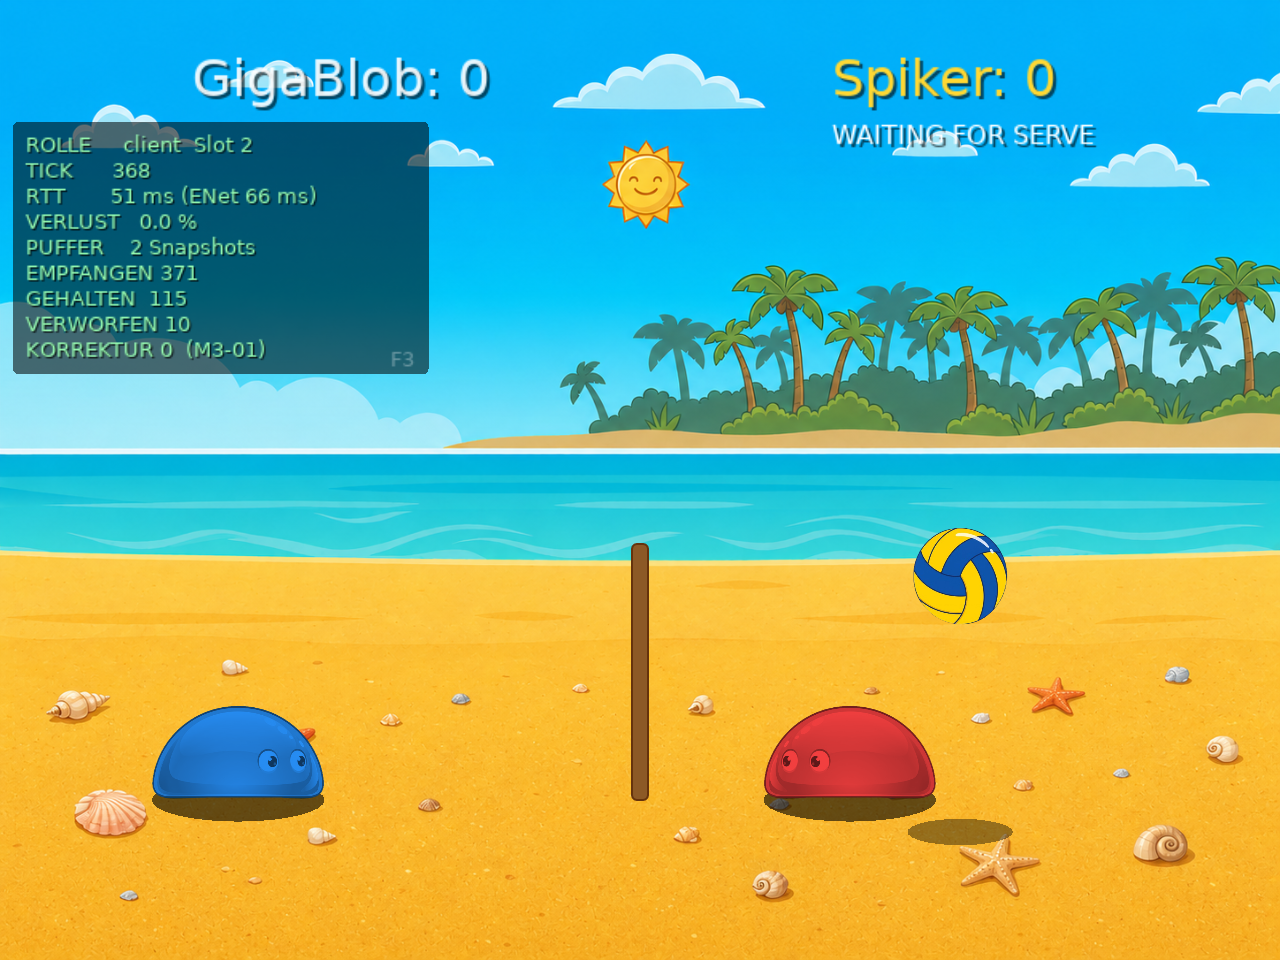
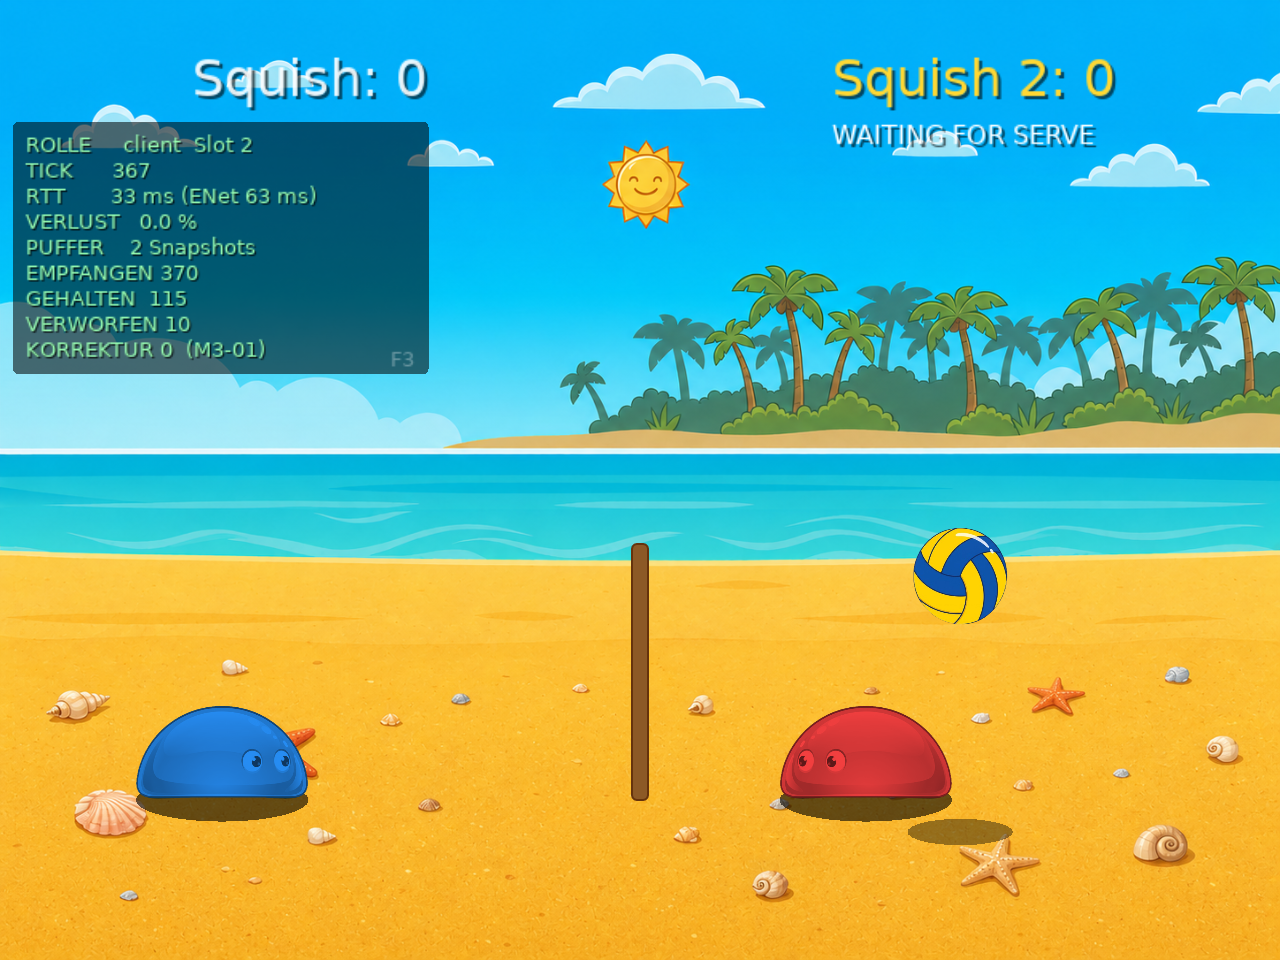
docs(net): close open point N-03 and write down the D2 order of play (M2)
CI run 14 is green on both platforms, so the byte-identity question from
04_NETCODE 13 is answered with a yes instead of "practically certain". The
one exception it turned up - the sign of zero - is recorded as finding B-N-07
and normalised away before sending.

The report now carries the order in which tonight's two-machine test should
run, and why the two hosting directions are separate steps: whether an
incoming connection arrives depends on the firewall of the machine that
hosts, not on the operating system of the guest.

Claude-Session: https://claude.ai/code/session_01SuUfbcMnVeAjRbEebhfFdR

diff --git a/docs/handoffs/CC-03_REPORT.md b/docs/handoffs/CC-03_REPORT.md
@@ -2,8 +2,21 @@
 
 **Datum:** 2026-08-12 · **Auftrag:** `docs/handoffs/CC-03_M2_LAN.md`
 **Ausgangsstand:** 968e35f · **Endstand:** siehe `git log` ab e69980d
-**Tests:** 155 bestanden, 0 gescheitert (vorher 83) · **Netz-Selbsttest:** 37 Prüfungen, alle grün
+**Tests:** 179 bestanden, 0 gescheitert (vorher 83) · **Netz-Selbsttest:** 37 Prüfungen, alle grün
 **Referenzen:** `python tools/verify_replays.py` meldet OK
+**CI:** Lauf 14 vollständig grün, einschließlich `Protokoll-Bytes (macos-latest)`
+
+---
+
+## 0. Nachtrag nach dem Push
+
+**Offener Punkt N-03 ist beantwortet: ja.** Der vollständige 72-Byte-Snapshot ist auf
+`windows-latest` und `macos-latest` bitgleich. Dafür brauchte es drei CI-Läufe, und der
+zweite hat etwas gefunden, das keine Überlegung am Schreibtisch gefunden hätte — siehe
+B-N-07.
+
+**Nachgereicht auf Ansage (r0btoshi, 2026-08-12):** ein **gespeicherter Nickname** für
+Netzspiel und Turnier. Die Zufallsnamen bleiben, wo sie hingehören — im lokalen Spiel.
 
 ---
 
@@ -38,7 +51,7 @@ Endstand** (`./tools/net_test.sh loopback`, zuletzt 2:0 bei 3595 übertragenen S
 | T-N-04 Client killen → Pause, Walkover | **ja** | Selbsttest: Pause, 30-s-Fenster, Walkover-Meldung nach Ablauf |
 | T-N-05 Killen und in 10 s zurück | **ja** | Selbsttest: derselbe `clientId` steigt in das laufende Match ein |
 | T-N-06 abweichender `rulesetHash` | **ja** | Selbsttest: Start unterbleibt, Klartext nennt beide Hashes |
-| T-N-07 gleiche Bytes auf Win und macOS | **halb** | Windows: Referenzbytes stimmen. macOS: CI-Job steht, ist aber **noch nie gelaufen** |
+| T-N-07 gleiche Bytes auf Win und macOS | **ja** | CI-Lauf 14: derselbe 72-Byte-Snapshot auf beiden Läufern. N-03 geschlossen |
 | T-N-08 200 Snapshots in einem Frame | **ja** | Selbsttest: 201 Ereignisse in einem Durchlauf, danach leer |
 | T-N-09 drei Hosts gleichzeitig | **offen** | braucht drei Rechner; die Zusammenführung doppelter Einträge ist belegt |
 | T-N-10 Host schließt die Lobby | **ja** | Selbsttest: der Gast bekommt „Verbindung zum Host verloren", die Szene räumt sich nach 6 s ab |
@@ -91,6 +104,21 @@ Phasen, die es nicht gibt, fehlten drei **sichtbare** Werte: Blob-Neigung (die A
 Seitwärts-Dash), Dash-Cooldown (der rote Balken im HUD) und der Fehlerwurf (die Einblendung
 „FAULT!"). Alle drei sind ergänzt; der Cooldown als Verhältnis in einem Byte.
 
+**B-N-07 — Das Vorzeichen der Null entsteht auf beiden Plattformen unterschiedlich.**
+Gefunden vom CI-Lauf 12, präzisiert von Lauf 13. Unter Windows-x86-64 ergibt `-zero` eine
+negative Null (`00000080`), unter macOS-ARM64 eine **positive** (`00000000`) — auf Apple
+Silicon fährt LÖVE 11.5 den Interpreter statt des JIT. Das ist **kein** Fehler von
+`love.data.pack`: alles andere ist bitgleich, der ganze Snapshot inklusive.
+
+Die Simulation erzeugt negative Nullen beiläufig (`ball.vx = -math.abs(ball.vx) * 0.8` bei
+`vx = 0`, `physics.lua:124`). Fürs Spiel bedeutungslos — `-0 == 0`, und niemand sieht ein
+Vorzeichen an einer stehenden Geschwindigkeit. **Für die Prüfsumme aus `04_NETCODE` §9 wäre
+es ein Fehlalarm in jedem Tick, in dem etwas stillsteht**, und der hätte in M3-03 ausgesehen
+wie ein echter Desync. `snapshot.lua` begradigt die Null deshalb vor dem Senden.
+
+Das ist der Ertrag von T-N-07: Der Punkt stand seit der Spec-Fassung 1.0 als „praktisch
+sicher" im Dokument. Er war es nicht ganz.
+
 **B-N-06 — Ein Aufschlag ohne Seitwärtsbewegung fällt auf die eigene Seite.** Beim Bau des
 Loopback-Tests aufgefallen: Ein Blob, der senkrecht unter dem Ball hochspringt, schlägt ihn
 senkrecht hoch, der Ball landet auf der eigenen Hälfte, es gibt Seitenaus statt Punkt — und
@@ -134,10 +162,15 @@ Optimierung herhält.
    zu prüfen und genau den Plattformunterschied unsichtbar zu machen, den T-N-07 finden soll.
    Der Headless-Runner meldet die Suite als übersprungen, statt zu schweigen.
 
-3. **Der Spielername ist weiterhin der zufällige aus dem Namenspool** und überlebt keinen
-   Neustart. Für die Lobby reicht das; ein persistenter Name wäre ein neues Prefs-Feld und
-   ein Menüeintrag. **Sag Bescheid, wenn er vor der Party persistent sein soll** — am
-   Partyabend erkennt man sich an Namen.
+3. **Der Nickname ist gebaut und gespeichert** (`prefs.playerName`, Menü unter „Network
+   Match", oberster Eintrag). Zwei Setzungen darin, beide widerrufbar:
+   - **Beim ersten Start wird ein Name vorbelegt** statt ein Formular gezeigt. Wer nichts
+     tut, heißt trotzdem irgendwie und kann sofort spielen.
+   - **Doppelte Namen löst der Host durch Anhängen** („Squish", „Squish 2"), nicht durch
+     Ablehnen. Ein abgewiesener Gast müsste zurück ins Menü, tippen, neu verbinden — drei
+     Schritte gegen die 90-Sekunden-Vorgabe. Der Gast sieht seinen tatsächlichen Namen in
+     der Lobby. **Wenn du im Turnier lieber eine harte Ablehnung willst, sag es vor M4** —
+     dort ist die Anmeldung der richtige Ort dafür, nicht die Lobby.
 
 4. **ESC im laufenden Satz beendet die ganze Sitzung**, nach dem Abpfiff dagegen nur das
    Match und man landet wieder in der Lobby. So kostet das nächste Match keinen neuen
@@ -150,13 +183,50 @@ Optimierung herhält.
 
 ## 6. Nächster Schritt
 
-1. **Pushen und die CI ansehen.** Der Job `protocol` läuft auf `windows-latest` und
-   `macos-latest` und beantwortet T-N-07 endgültig. Läuft der macOS-Läufer LÖVE nicht ohne
-   Bildschirm, ist das dort zu sehen und nicht am Partyabend.
-2. **D2 mit zwei Rechnern**, am besten einer davon der Mac: Discovery über einen echten
-   Switch, Windows-Firewallabfrage abwarten statt wegklicken (N-05), ENet eingehend auf
-   macOS (N-04), ein vollständiger Satz für T-N-01.
-3. **`clumsy` einmal von Hand** für T-N-02 und T-N-03. Filter steht im Skriptkopf.
-4. Danach ist M2 abgenommen und **M3** dran: Vorhersage des eigenen Blobs (M3-01) und
-   Kosmetik aus Snapshot-Deltas (M3-02). Das Feld „KORREKTUR" im F3-Overlay steht schon da
-   und meldet 0 — M3-01 füllt es, statt es zu erfinden.
+### D2 am Abend — was in welcher Reihenfolge zu prüfen ist
+
+Die Reihenfolge ist nicht beliebig. Jeder Schritt setzt den vorigen voraus, und der erste,
+der scheitert, erklärt die folgenden.
+
+1. **Beide Rechner in dasselbe Segment**, möglichst per Kabel. WLAN-Access-Points mit
+   Client-Isolation blocken den Broadcast zwischen Gästen (`04_NETCODE` §11).
+2. **Nickname auf beiden Geräten setzen**, bevor irgendetwas gestartet wird. Sonst heißen
+   beide gleich und der Host hängt eine „2" an — richtig, aber verwirrend beim ersten Mal.
+3. **Windows hostet, Mac tritt bei.** Beim ersten Start fragt die Windows-Firewall nach
+   einer Freigabe — **erlauben, nicht wegklicken**, und zwar für das Profil, in dem der
+   Rechner gerade ist (N-05). Erscheint die Lobby beim Mac in der Liste? Wenn nicht: die
+   IP aus der Lobby des Hosts abtippen, letzter Eintrag der Serverliste. Findet die
+   Discovery nichts, die IP-Eingabe aber schon, ist es die Firewall oder das Netz — nicht
+   der Netzcode.
+4. **Mac hostet, Windows tritt bei.** Das ist der eigentlich offene Punkt N-04: ob ENet auf
+   macOS eine **eingehende** Verbindung ohne zusätzliche Freigabe annimmt. Ausgehend
+   funktioniert erfahrungsgemäß immer, eingehend ist die Frage.
+5. **Ein vollständiger Satz** in beiden Richtungen (T-N-01), einmal mit F3 offen: RTT
+   sollte im LAN einstellig sein, „GEHALTEN" nahe null. Steht dort etwas anderes, ist das
+   die Zahl für den Fehlerbericht.
+6. **Stecker ziehen** beim Gast mitten im Satz (T-N-04): Der Host muss „Warte auf …" mit
+   Zähler zeigen. Innerhalb von 30 s wieder verbinden (T-N-05) — der Satz läuft weiter, der
+   Stand bleibt. Danach einmal ablaufen lassen: Walkover.
+7. **`clumsy` auf dem Windows-Rechner** für T-N-02 und T-N-03. Filter im Kopf von
+   `tools/net_test.sh`.
+
+**Zu deiner Frage: Nein, Windows↔Windows folgt nicht automatisch, aber fast.** Was der
+gemischte Test zusätzlich beweist, deckt den gleichnamigen Fall mit ab — Protokoll,
+Bytereihenfolge und Ablauf sind plattformunabhängig, und die harte Frage (float32 auf
+ARM gegen x86-64) ist mit T-N-07 in der CI schon beantwortet. **Was er nicht beweist, ist
+die Richtung:** Ob eine eingehende Verbindung ankommt, hängt an der Firewall des Rechners,
+der **hostet**, nicht am Betriebssystem des Gastes. Deshalb stehen oben Punkt 3 und 4
+getrennt. Ist einmal Windows als Host durchgelaufen, ist Windows↔Windows abgedeckt; ist
+nur der Mac als Host gelaufen, weißt du über den Windows-Host nichts.
+
+Der zweite Unterschied ist unspektakulär, aber real: Bei zwei gleichen Plattformen sind die
+Builds identisch, also bleibt die Build-Hash-Warnung aus. Bei Mac gegen Windows erscheint
+sie — **das ist richtig so und kein Fehler** (`04_NETCODE` §10: nur Warnung, kein Abbruch).
+Wenn sie erscheint, ist genau das der Beleg, dass die Prüfung wirkt.
+
+### Danach
+
+**M3**: Vorhersage des eigenen Blobs (M3-01) und Kosmetik aus Snapshot-Deltas (M3-02). Das
+Feld „KORREKTUR" im F3-Overlay steht schon da und meldet 0 — M3-01 füllt es, statt es zu
+erfinden. Für M3-03 (Desync-Detektor) ist B-N-07 die Vorarbeit: Die Prüfsumme darf nur über
+Werte laufen, die auf beiden Plattformen bitgleich entstehen.

diff --git a/docs/08_ROADMAP_BACKLOG.md b/docs/08_ROADMAP_BACKLOG.md
@@ -96,7 +96,11 @@ ersten Push. Bis dahin gilt für den macOS-Pfad: geschrieben, nicht bewiesen.
 
 **Offen aus M2:** D2 (zwei Rechner) und die Paketverlustfälle T-N-02/T-N-03 — beides braucht
 Hardware, keinen Code. Ebenso N-04 (ENet auf einem frischen Mac) und N-05 (Broadcast durch
-eine Windows-Firewall im öffentlichen Profil). Einzelheiten in `docs/handoffs/CC-03_REPORT.md`.
+eine Windows-Firewall im öffentlichen Profil). Einzelheiten in `docs/handoffs/CC-03_REPORT.md`;
+die Prüfreihenfolge für den Abend steht dort in §6.
+
+**Geschlossen in M2:** N-03 (gleiche Bytes auf Windows und macOS) — beantwortet durch T-N-07
+in der CI, mit einer gefundenen Ausnahme beim Vorzeichen der Null (`04_NETCODE` §6).
 
 ### M3 — Netzwerk-Politur (10–15 h)
 
